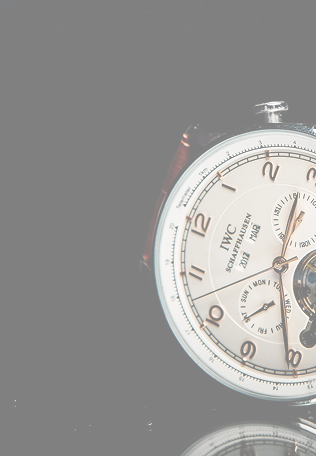
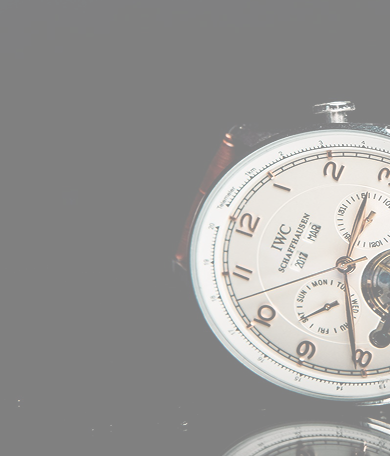
fix header and secton padding

diff --git a/src/components/Main/Header/Header.tsx b/src/components/Main/Header/Header.tsx
@@ -6,58 +6,40 @@ import { Globe, Menu, Close } from "../../../../public/icons";
 
 export const Header = () => {
   const [open, setOpen] = useState(false);
-  const handleOpening = () => {
-    if (open) {
-      setOpen(false);
-    } else {
-      setOpen(true);
-    }
-  };
+
+  const toggleMenu = () => setOpen((prev) => !prev);
+  const closeMenu = () => setOpen(false);
+
   return (
-    <header className={`${styles.header} ${open && styles.fixedHeader}`}>
+    <header className={`${styles.header} ${open ? styles.fixedHeader : ""}`}>
       <div className={styles.headerContainer}>
-        <nav>
-          <Link href="/" className={styles.headerLogo}>
-            WatchGenius
+        {/* Логотип */}
+        <Link href="/" className={styles.headerLogo}>
+          WatchGenius
+        </Link>
+
+        {/* Десктоп-меню */}
+        <nav className={styles.headerRightLinks}>
+          <Link href="/about-us" className={styles.headerLink} prefetch={false}>
+            Про нас
+          </Link>
+          <Link href="/catalog" className={styles.headerLink} prefetch={false}>
+            Каталог
+          </Link>
+          <Link href="#contacts" className={styles.headerLink} prefetch={false}>
+            Контакти
           </Link>
         </nav>
-        <div className={styles.headerRightLinks}>
-          <nav>
-            <Link
-              href="/about-us"
-              className={styles.headerLink}
-              prefetch={false}
-            >
-              Про нас
-            </Link>
-          </nav>
-          <nav>
-            <Link
-              href="/catalog"
-              className={styles.headerLink}
-              prefetch={false}
-            >
-              Каталог
-            </Link>
-          </nav>
-          <nav>
-            <Link
-              href="#contacts"
-              className={styles.headerLink}
-              prefetch={false}
-            >
-              Контакти
-            </Link>
-          </nav>
-        </div>
+
         <button className={styles.headerLangSwitchBtn}>
-          <img
-            src={Globe.src}
-            alt="globe icon"
-            className={styles.headerLangSwitchIcon}
-          />
+          <img src={Globe.src} alt="Переключить язык" />
         </button>
-        <button className={styles.headerMobileMenuBtn} onClick={handleOpening}>
+        <button
+          className={styles.headerMobileMenuBtn}
+          onClick={toggleMenu}
+          aria-expanded={open}
+          aria-controls="mobileMenu"
+        >
           <img
             src={open ? Close.src : Menu.src}
             alt="menu icon"
@@ -68,42 +50,33 @@ export const Header = () => {
             }
           />
         </button>
+
         {open && (
-          <div className={styles.headerMobileMenu}>
+          <div id="mobileMenu" className={styles.headerMobileMenu}>
             <div className={styles.headerMobileMenuWrapper}>
-              <nav>
-                <Link
-                  href="/about-us"
-                  className={styles.headerMobileMenuLink}
-                  prefetch={false}
-                >
-                  Про нас
-                </Link>
-              </nav>
-              <nav>
-                <Link
-                  href="/catalog"
-                  className={styles.headerMobileMenuLink}
-                  prefetch={false}
-                >
-                  Каталог
-                </Link>
-              </nav>
-              <nav>
-                <Link
-                  href="#contacts"
-                  className={styles.headerMobileMenuLink}
-                  prefetch={false}
-                >
-                  Контакти
-                </Link>
-              </nav>
+              <Link
+                href="/about-us"
+                onClick={closeMenu}
+                className={styles.headerMobileMenuLink}
+              >
+                Про нас
+              </Link>
+              <Link
+                href="/catalog"
+                onClick={closeMenu}
+                className={styles.headerMobileMenuLink}
+              >
+                Каталог
+              </Link>
+              <Link
+                href="#contacts"
+                onClick={closeMenu}
+                className={styles.headerMobileMenuLink}
+              >
+                Контакти
+              </Link>
               <button className={styles.headerMobileLangSwitchBtn}>
-                <img
-                  src={Globe.src}
-                  alt="globe icon"
-                  className={styles.headerMobileLangSwitchIcon}
-                />
+                <img src={Globe.src} alt="Переключить язык" />
               </button>
             </div>
           </div>

diff --git a/src/components/Main/Header/Header.module.css b/src/components/Main/Header/Header.module.css
@@ -3,6 +3,7 @@
   padding: 1rem 0;
   z-index: 90;
   position: relative;
+  padding: 17px 70px;
 }
 
 .headerContainer {
@@ -18,7 +19,6 @@
   color: var(--white);
   text-decoration: none;
   transition: all 0.3s ease;
-  padding: 0.5rem 1rem;
   border-radius: 8px;
 }
 
@@ -90,24 +90,6 @@
     display: flex;
     max-width: 100%;
     justify-content: space-between;
-    margin: 0 20px;
-  }
-
-  .headerMobileMenu {
-    position: fixed;
-    bottom: 0;
-    left: 0;
-    width: 100%;
-    height: 95%;
-    background-color: var(--black);
-    display: flex;
-    flex-direction: column;
-    justify-content: center;
-    z-index: 50;
-    overflow: hidden;
-    transform: translateY(0);
-    opacity: 1;
-    pointer-events: auto;
   }
   .headerMobileMenuWrapper {
     display: flex;
@@ -149,35 +131,17 @@
     width: 44px;
     height: 44px;
   }
-}
-
-@media (max-width: 835px) {
-  .fixedHeader {
-    position: fixed;
-    top: 0;
-    left: 0;
-    right: 0;
-    width: 100%;
-    z-index: 100;
-  }
-  .headerRightLinks,
-  .headerLink,
-  .headerLangSwitchBtn {
-    display: none;
-  }
-  .headerContainer {
-    display: flex;
-    max-width: 100%;
-    justify-content: space-between;
-    margin: 0 20px;
+  .header {
+    padding: 15px 20px;
   }
 
   .headerMobileMenu {
     position: fixed;
+    top: 60px;
     bottom: 0;
     left: 0;
     width: 100%;
-    height: 95%;
+    height: calc(100% - 60px);
     background-color: var(--black);
     display: flex;
     flex-direction: column;
@@ -188,6 +152,20 @@
     opacity: 1;
     pointer-events: auto;
   }
+}
+
+@media (max-width: 835px) {
+  .headerRightLinks,
+  .headerLink,
+  .headerLangSwitchBtn {
+    display: none;
+  }
+  .headerContainer {
+    display: flex;
+    max-width: 100%;
+    justify-content: space-between;
+  }
+
   .headerMobileMenuWrapper {
     display: flex;
     flex-direction: column;
@@ -230,14 +208,6 @@
   }
 }
 @media (max-width: 420px) {
-  .fixedHeader {
-    position: fixed;
-    top: 0;
-    left: 0;
-    right: 0;
-    width: 100%;
-    z-index: 100;
-  }
   .headerRightLinks,
   .headerLink,
   .headerLangSwitchBtn {
@@ -247,7 +217,6 @@
     display: flex;
     max-width: 100%;
     justify-content: space-between;
-    margin: 0 20px;
   }
 
   .headerMobileMenu {

diff --git a/src/features/home/Watch/Watch.module.css b/src/features/home/Watch/Watch.module.css
@@ -1,19 +1,21 @@
 .watch {
   background-color: var(--black);
-  max-height: 350px;
+  height: 350px;
   position: relative;
   background-image: url("/watch-section/watch.png");
   background-repeat: no-repeat;
   background-position: right bottom;
-  padding: 70px 60px 52px 70px;
+  background-size: contain;
+  padding: 0 70px;
+  display: flex;
+  align-items: center;
 }
 
 .watchLeft {
+  gap: 60px;
   display: flex;
   flex-direction: column;
-  gap: 60px;
   align-items: flex-start;
-  margin: 0 auto;
   z-index: 20;
   max-width: 1300px;
 }
@@ -68,10 +70,11 @@
   transform: translateY(-2px);
 }
 
-@media (max-width: 768px) {
+@media (max-width: 834px) {
   .watch {
-    padding: 50px 40px;
-    /* max-height: 350px; */
+    padding: 0 40px;
+    max-height: 314px;
+    background-position: calc(100% + 70px) bottom;
   }
 
   .watchLeft,
@@ -93,8 +96,9 @@
   .watch {
     max-height: 456px;
     height: 100%;
-    padding: 94px 20px;
+    padding: 0 20px;
     background-image: url("/watch-section/watch-small.png");
+    background-position: right bottom;
   }
 
   .watchLeft {

diff --git a/src/features/home/Watch/Watch.tsx b/src/features/home/Watch/Watch.tsx
@@ -11,10 +11,10 @@ export const Watch = () => {
     <section className={styles.watch}>
       <div className={styles.watchLeft}>
         <div className={styles.watchText}>
-          <ThemedText type="h2" className="text-white">
+          <ThemedText type="h2" className="text-[#EDEDED]">
             Годинник, що говорить за вас
           </ThemedText>
-          <ThemedText type="h5" className="text-white max-w-[530px]">
+          <ThemedText type="h5" className="text-white max-w-[520px]">
             Вибрані моделі від легендарних брендів. Стиль, точність, статус — у
             кожній деталі.
           </ThemedText>
@@ -23,7 +23,7 @@ export const Watch = () => {
           <Button
             variant="solid"
             color="#000"
-            bgColor="#fff"
+            bgColor="#EDEDED"
             classNames={styles.watchBtn}
           >
             Переглянути каталог
